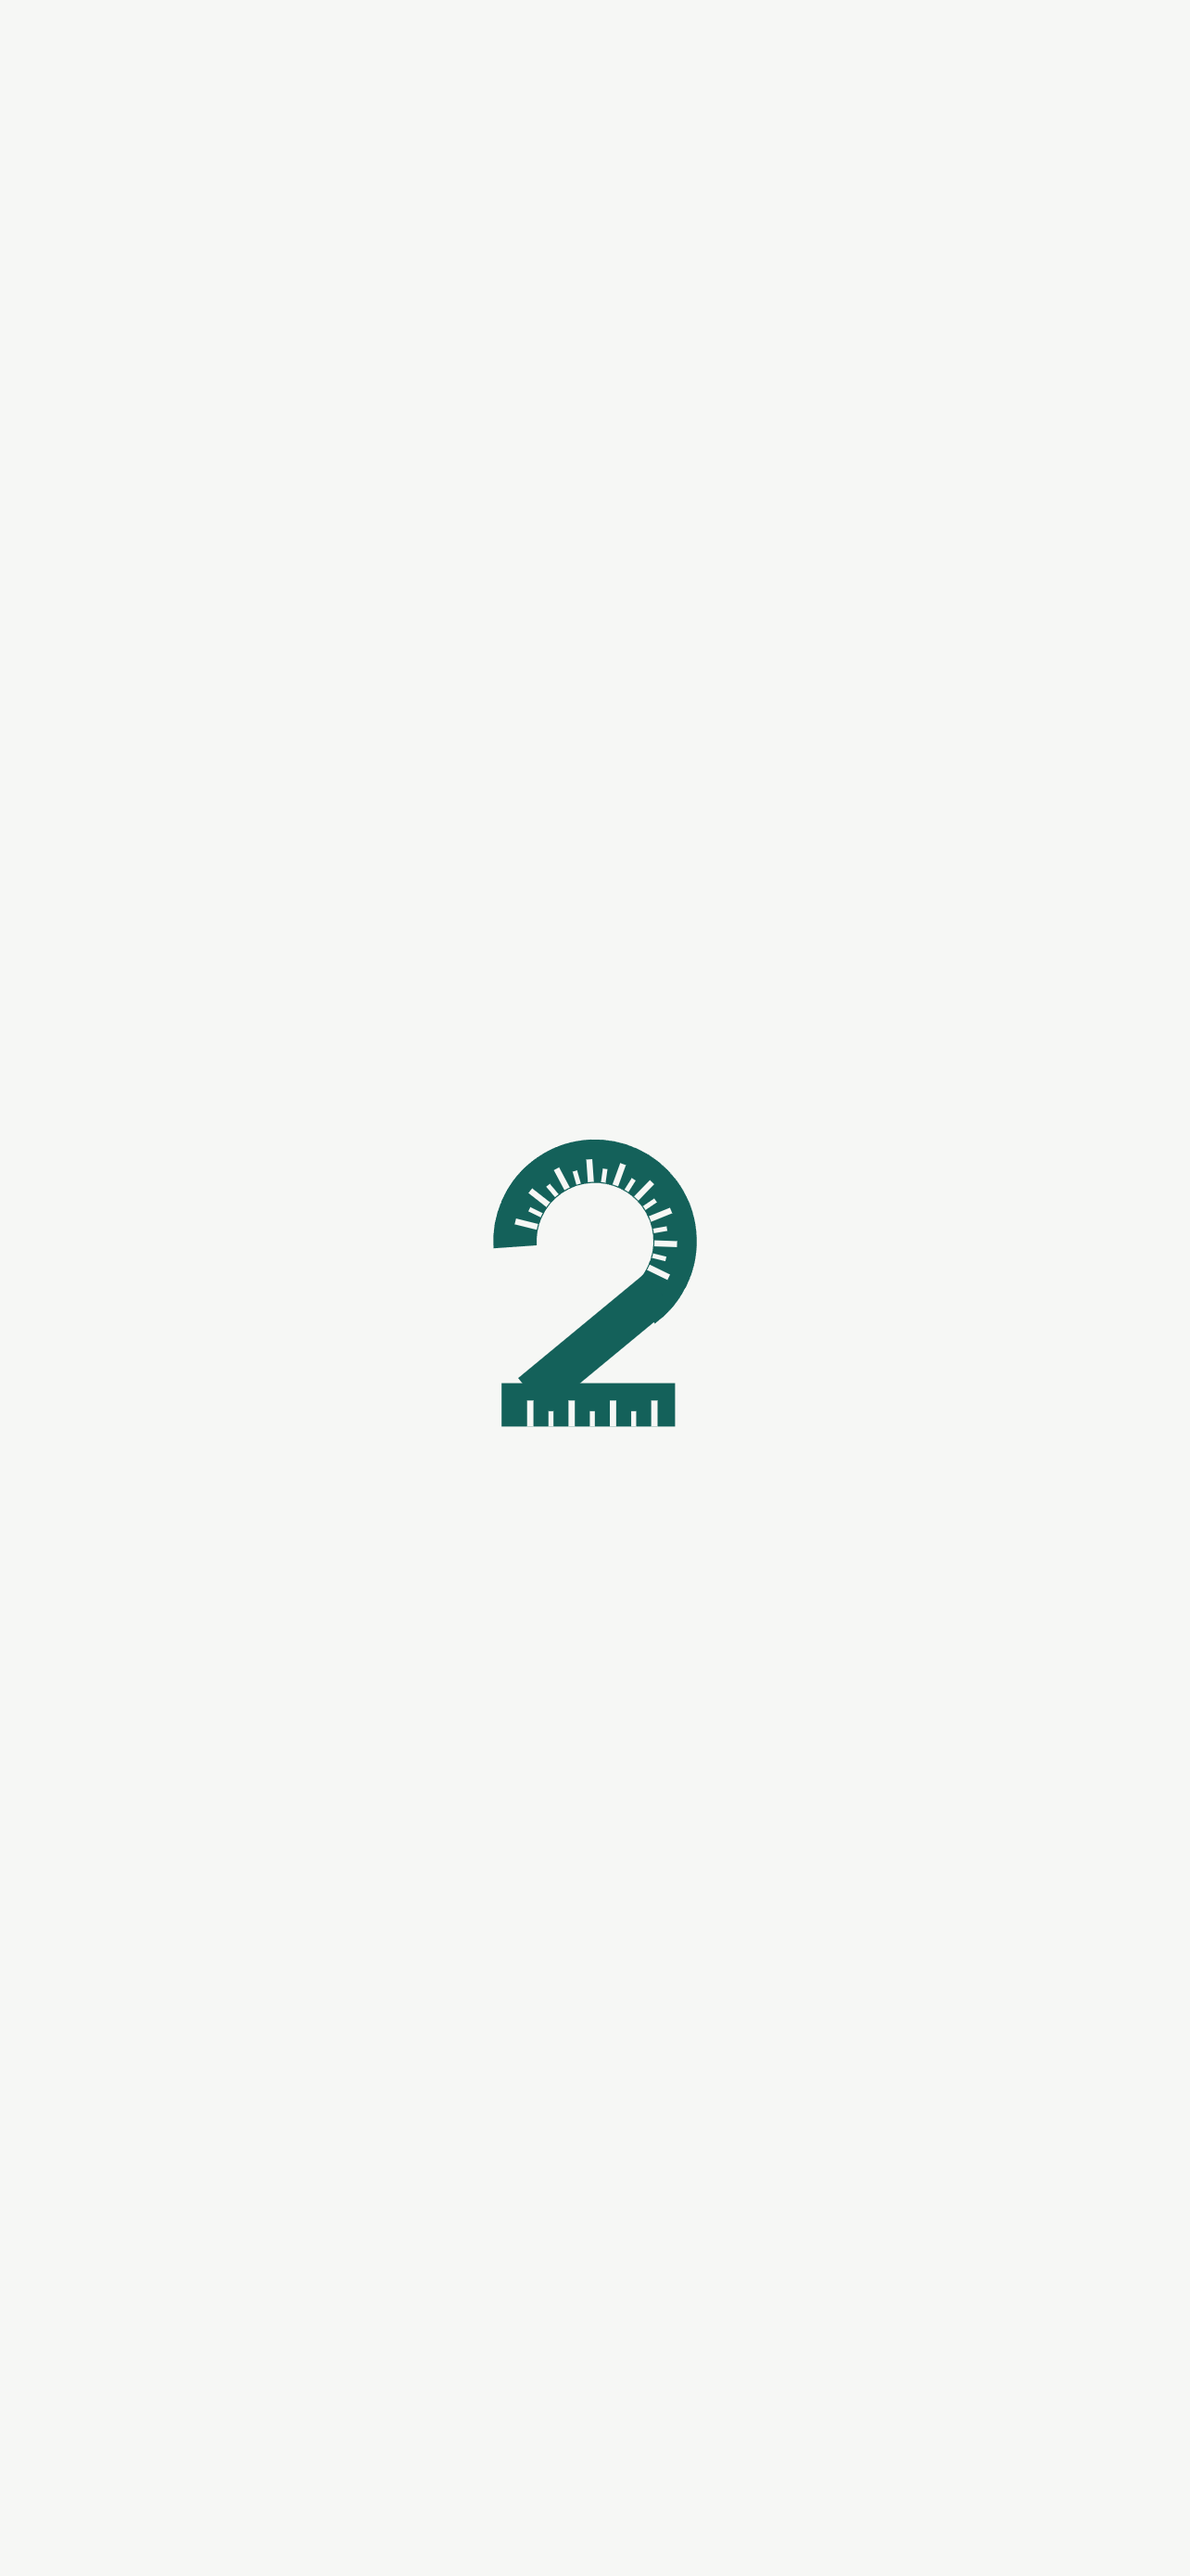
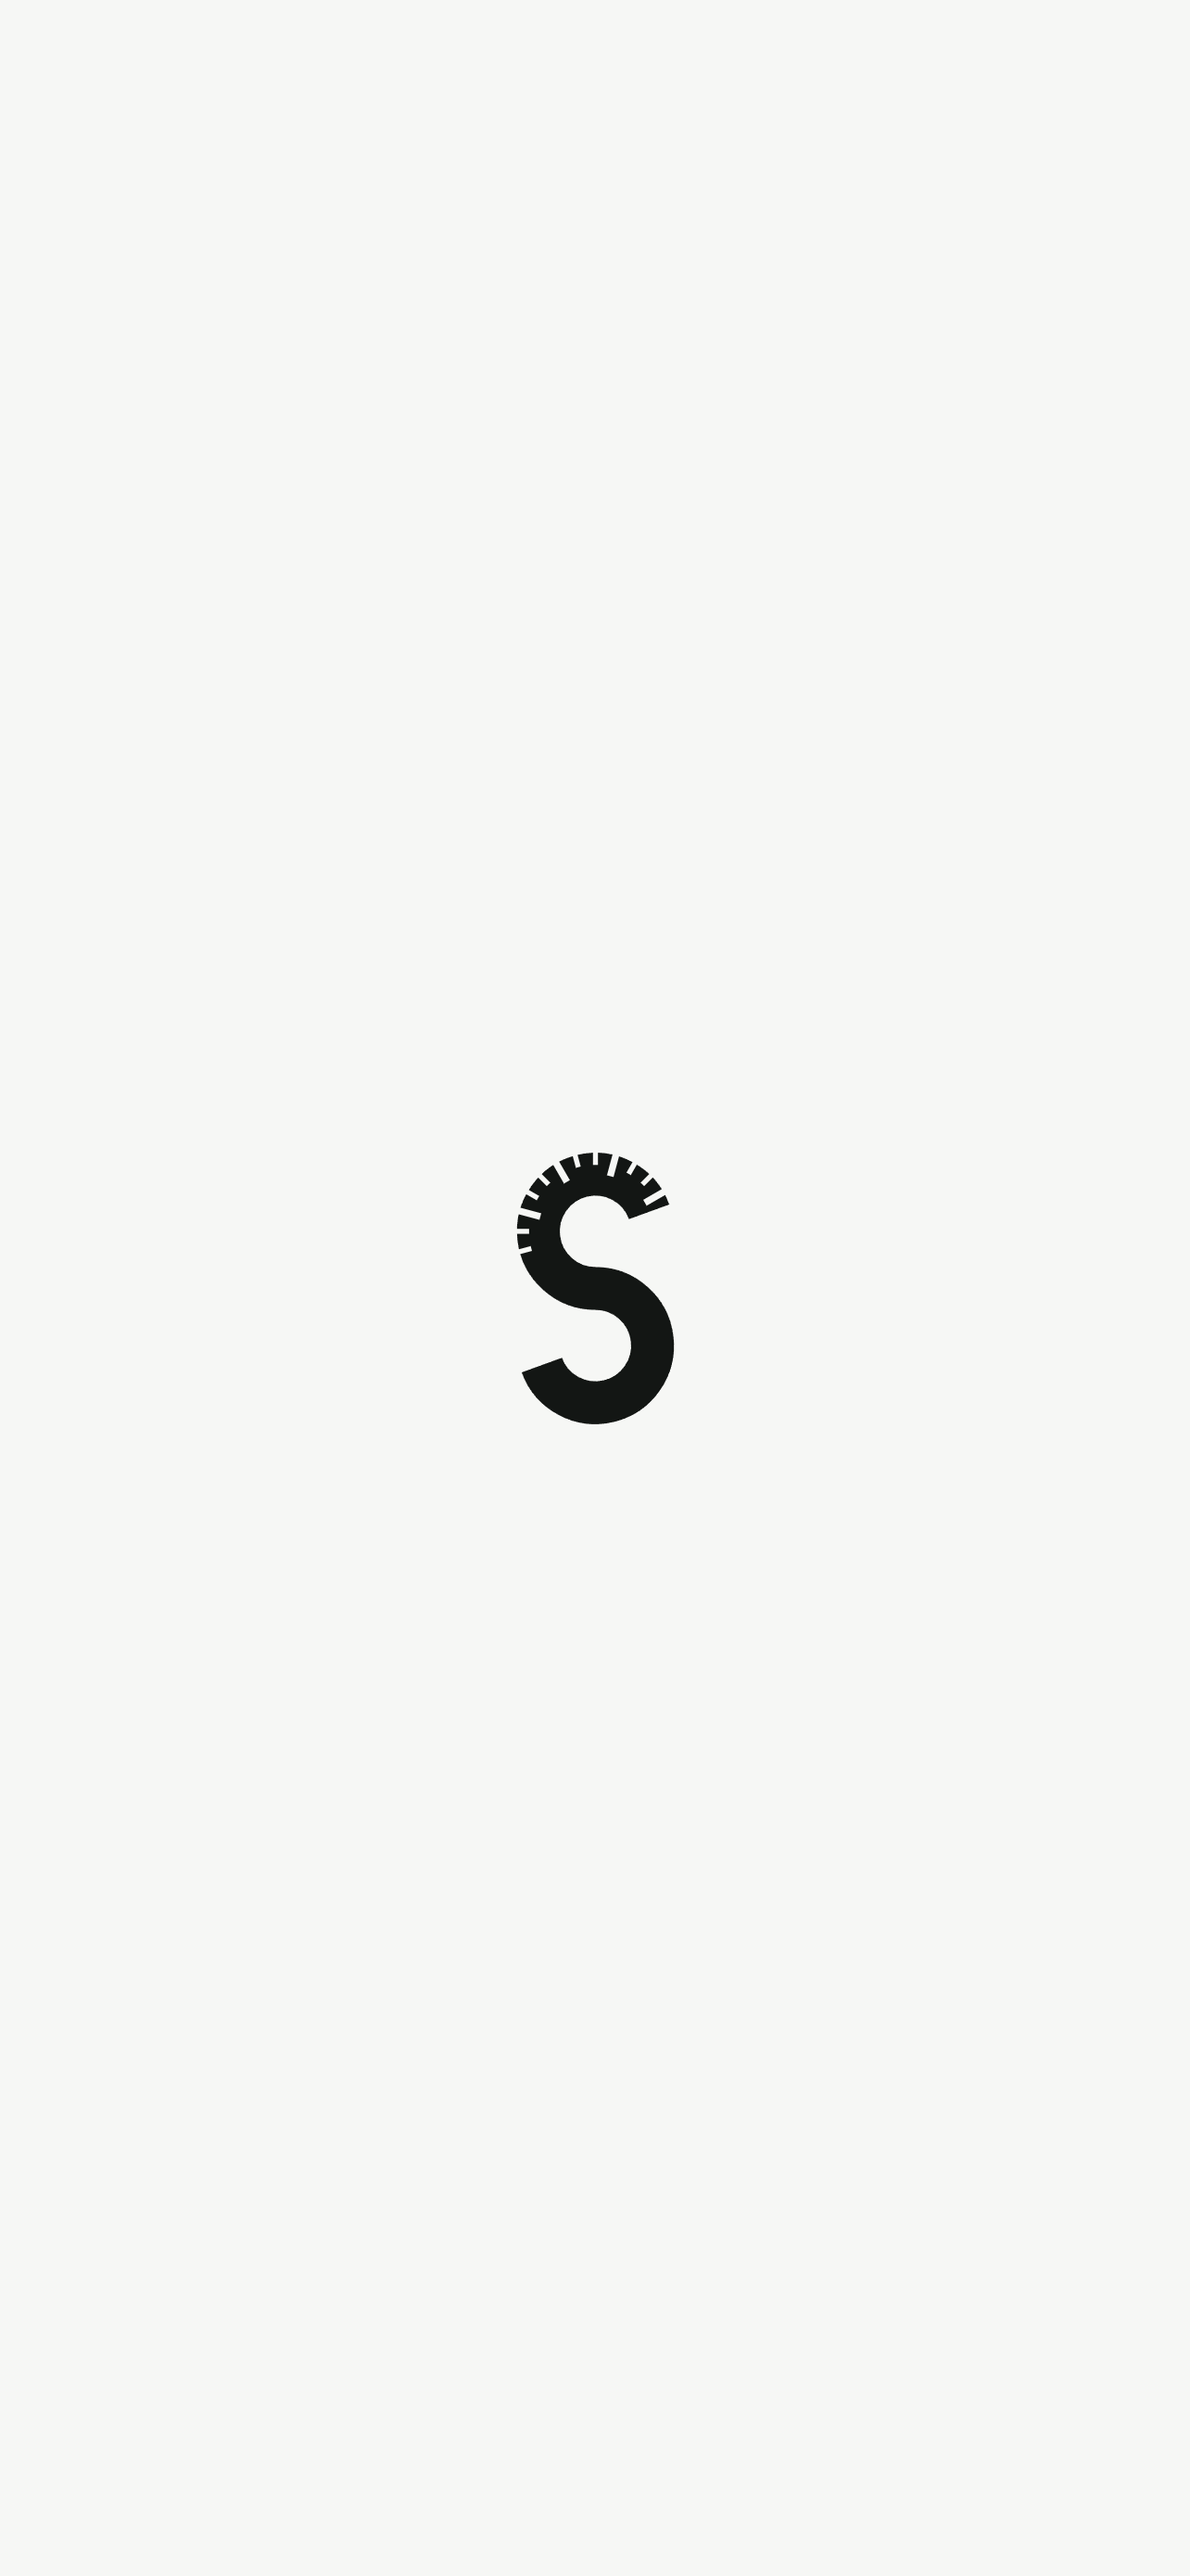
Marka gorselleri uretilir hale getirildi; paket eski ikonu tasiyordu
Uygulama ikonu, uyarlanabilir ikon, acilis ekrani ve magaza gorselleri elle cizilmisti.
Isim degisince hepsi tek tek yeniden cizilmek zorunda kaldi ve biri unutulursa uygulamanin
icinde eski marka kalirdi. scripts/gorsel-uret.mjs hepsini brand/ SVG'lerinden uretiyor;
kaynak artik tek.

ISARET ucuncu turda oturdu. Onceki iki tur ve neden yetmedikleri:
  1. Yaylar birlesmiyordu (merkezler arasi mesafe 2R degildi), iki ayri C okunuyordu.
  2. Geometri duzeldi ama centikler her iki yayin cevresine dagilmisti: testere gibi.
Made2Fit'in isaretine bakinca sebep gorundu -- orada da centikler tek yerde, aciolcerin
dis kavsinde, yelpaze gibi. Govdenin geri kalani temiz. Ayni kompozisyon tasindi:
taksimat yalnizca ust yayda, daha derin ve daha seyrek.

ONEMLI BULGU -- paket sessizce eski markayi tasiyordu.

AAB derlendikten sonra icinden ic_launcher_foreground.webp cikarilip BAKILDI: hala eski
"2" isaretiydi. Kaynak agactaki webp'nin zaman damgasi tazeydi, o yuzden dosyaya bakmak
yaniltici olurdu.

Sebep sira: Android mipmap'lerini gradle degil `expo prebuild` uretiyor ve kaynagi
apps/mobile/assets/ikon.png. Prebuild once calisip PNG sonra degistirilince
`gradlew bundleRelease` mipmap'leri YENILEMIYOR.

Onlem: `npm run marka` dogru sirayi tek komutta zorluyor --
  marka-uret -> gorsel-uret -> expo prebuild --clean -> android-imza
gorsel-uret.mjs bas yorumunda da bu sira ve nedeni yaziyor.

Yan is: imza.properties anahtarlari SWIIP_* oldu (dosya gitignore'da oldugu icin
[…]

Changed region(s): [[0.405, 0.4334, 0.5919, 0.5572]]

diff --git a/CLAUDE.md b/CLAUDE.md
@@ -124,12 +124,12 @@ brand/                    Logo dosyaları (SVG, currentColor kullanır)
 
 ## Açık işler
 
-- **Göç adımı dağıtımda otomatik değil.** İlk kurulumda `goc.ts` elle çalıştırıldı;
-  compose'da göç servisi yok. Sonraki dağıtımda şema güncellemesi sessizce atlanır.
 - TürKomp kullanım koşulları yazılı teyit edilecek
-- Swiip için **sicil taraması yapılmadı.** Mağazalarda sıfır sonuç doğrulandı (App Store
-  TR ve Play), ama TÜRKPATENT/EUIPO sınıf 9/41/42/44 taraması yapılmadı — markaya para
-  harcamadan önce yapılmalı.
+- **Marka: Türkiye temiz, AB/İngiltere çekişmeli.** TMview taraması (2026-08-21):
+  Türkiye'de "swiip" içeren **sıfır** kayıt — TÜRKPATENT'te 9/41/44 başvurusu yapılmalı.
+  Ama İngiltere'de birebir `swiip` (sınıf 35/42, Hassan Hashmi) ve EUIPO'da `Swiipe`
+  (sınıf 9/36, Swiipe ApS) tescilli. AB'de sınıf 9 başvurusunda `Swiipe` karşına çıkar.
+  Global açılımdan önce marka vekiline danış.
 - Sunucu yedekleri: DO anlık yedeği açık, ama **geri yüklemesi denenmedi**
 - Kilitteki "Swiip" yazısı outline'a çevrilecek
 - Mağaza görselleri (`magaza/play/`) hâlâ Made2Fit markalı — yeniden üretilecek
